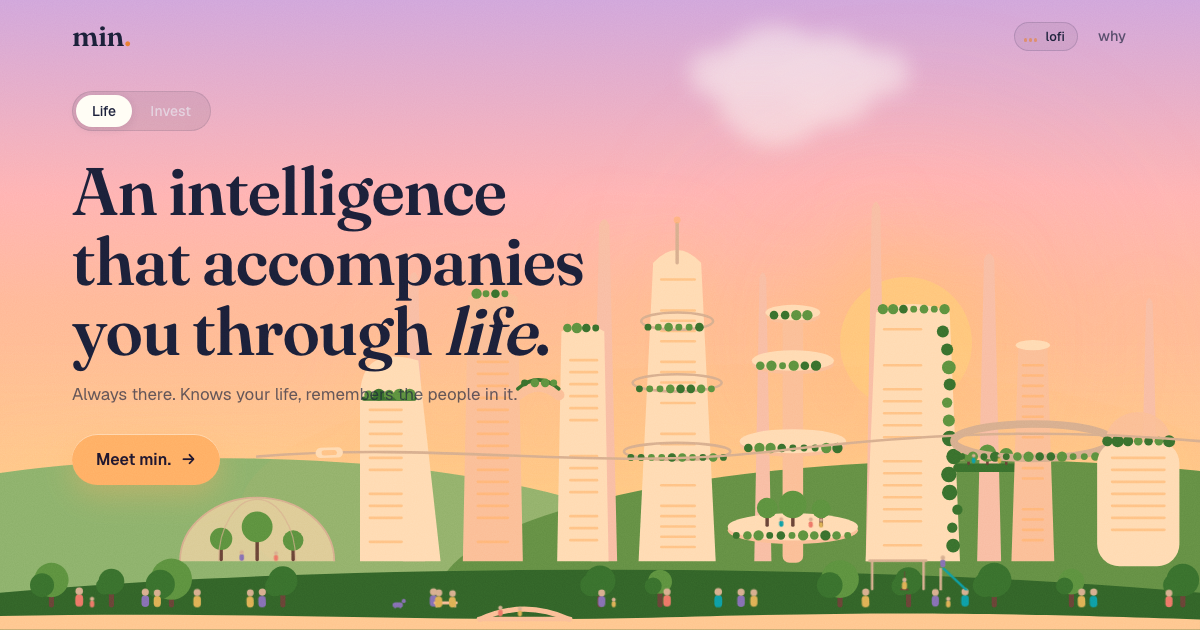
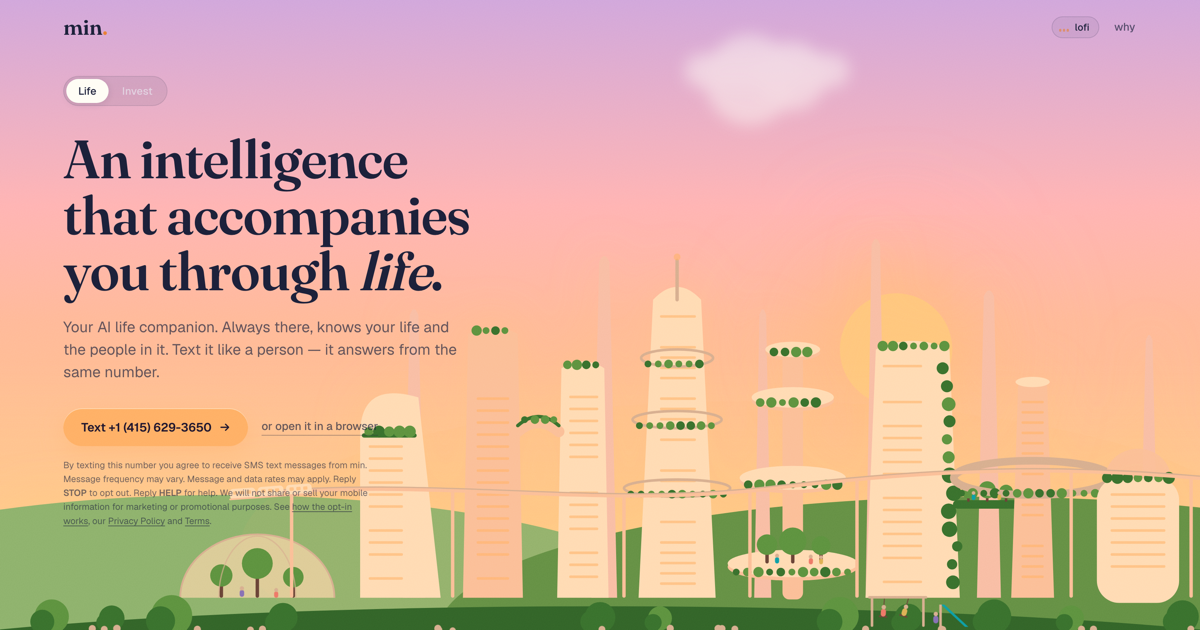
Say "AI life companion" where the page can be read
The Google result was serving a title two commits stale, from when the
home was a full-screen split and both specialists were visible at once
— which is where "Research tooling, not financial advice" in the
snippet came from. That layout is gone; Invest has been behind a toggle
and display:none by default since. So the main fix is a recrawl.

What was worth fixing anyway: the title promised an AI life companion
and no visible text on the page ever said it, which is an invitation to
Google to write its own title. The lede says it now. The h1 stays — it
is the brand line, not a keyword slot.

Also a robots meta that lets a full snippet be built from our own
description, an og:image:alt that had not caught up, and the share card
recaptured, since it still showed a "Meet min." button that the number
replaced.

diff --git a/index.html b/index.html
@@ -7,6 +7,7 @@
 <meta name="description" content="min. is an AI life companion you text like a person. It keeps up with your calendar, your inbox and the people in your life, and checks in when something matters. Text +1 (415) 629-3650 to start.">
 <meta name="keywords" content="AI life companion, AI companion app, AI assistant you can text, personal AI assistant, AI that remembers your life, AI friend that texts">
 <link rel="canonical" href="https://withmin.ai/">
+<meta name="robots" content="index, follow, max-snippet:-1, max-image-preview:large, max-video-preview:-1">
 <meta name="theme-color" content="#f6efe4">
 <meta property="og:type" content="website">
 <meta property="og:site_name" content="min.">
@@ -16,7 +17,7 @@
 <meta property="og:image" content="https://withmin.ai/assets/og-home.png">
 <meta property="og:image:width" content="1200">
 <meta property="og:image:height" content="630">
-<meta property="og:image:alt" content="min. An intelligence that accompanies you through life.">
+<meta property="og:image:alt" content="min. — an AI life companion. Text +1 (415) 629-3650 to start.">
 <meta name="twitter:card" content="summary_large_image">
 <meta name="twitter:creator" content="@ericzizhouwangx">
 <meta name="twitter:title" content="min. | An AI life companion that accompanies you through life">
@@ -1171,12 +1172,12 @@
 
     <div data-for="life">
       <h1>An intelligence that accompanies you through <em>life</em>.</h1>
-      <p class="lede" id="lede">Always there. Knows your life, and the people in it. Text it like a person &mdash; it answers from the same number.</p>
+      <p class="lede" id="lede">Your AI life companion. Always there, knows your life and the people in it. Text it like a person &mdash; it answers from the same number.</p>
       <div class="ctas">
         <a class="cta" href="sms:+14156293650">Text +1 (415) 629-3650 <span class="arrow" aria-hidden="true">&rarr;</span></a>
         <a class="cta-ghost" href="https://life.withmin.ai">or open it in a browser</a>
       </div>
-      <p class="sms-fine">By texting this number you agree to receive text messages from min. Message frequency may vary. Message and data rates may apply. Reply <strong>STOP</strong> to opt out or <strong>HELP</strong> for help. We will not share or sell your mobile information for marketing or promotional purposes. See <a href="/sms">how the opt-in works</a>, our <a href="/privacy">Privacy Policy</a> and <a href="/terms">Terms</a>.</p>
+      <p class="sms-fine">By texting this number you agree to receive SMS text messages from min. Message frequency may vary. Message and data rates may apply. Reply <strong>STOP</strong> to opt out. Reply <strong>HELP</strong> for help. We will not share or sell your mobile information for marketing or promotional purposes. See <a href="/sms">how the opt-in works</a>, our <a href="/privacy">Privacy Policy</a> and <a href="/terms">Terms</a>.</p>
     </div>
 
     <div data-for="invest">
@@ -1256,7 +1257,7 @@
         <p class="sub">The future is still ours to build. And it can be better.</p>
         <div class="ctas"><a class="cta" href="sms:+14156293650">Text +1 (415) 629-3650 <span class="arrow" aria-hidden="true">&rarr;</span></a>
           <a class="cta-ghost" href="https://life.withmin.ai">or open it in a browser</a></div>
-        <p class="sms-fine">By texting this number you agree to receive text messages from min. Message frequency may vary. Message and data rates may apply. Reply <strong>STOP</strong> to opt out or <strong>HELP</strong> for help. We will not share or sell your mobile information for marketing or promotional purposes. See <a href="/sms">how the opt-in works</a>, our <a href="/privacy">Privacy Policy</a> and <a href="/terms">Terms</a>.</p>
+        <p class="sms-fine">By texting this number you agree to receive SMS text messages from min. Message frequency may vary. Message and data rates may apply. Reply <strong>STOP</strong> to opt out. Reply <strong>HELP</strong> for help. We will not share or sell your mobile information for marketing or promotional purposes. See <a href="/sms">how the opt-in works</a>, our <a href="/privacy">Privacy Policy</a> and <a href="/terms">Terms</a>.</p>
       </div>
       <div data-for="invest">
         <h2>Hand it an idea.</h2>
